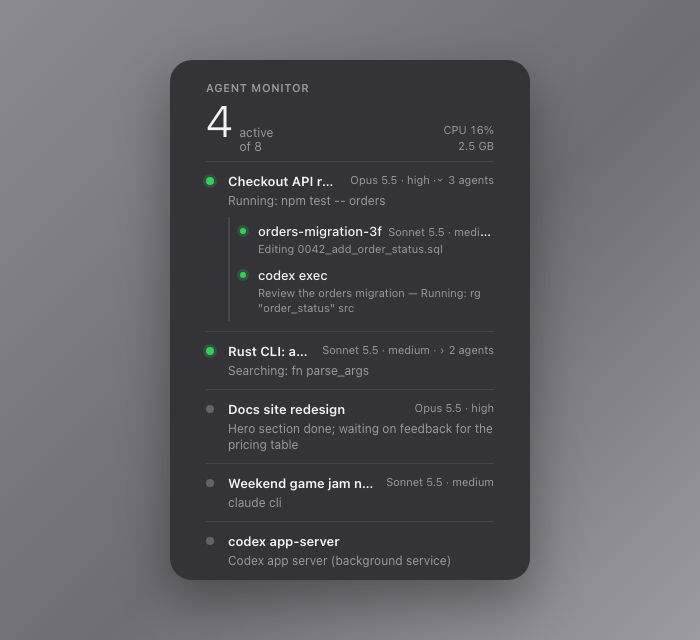
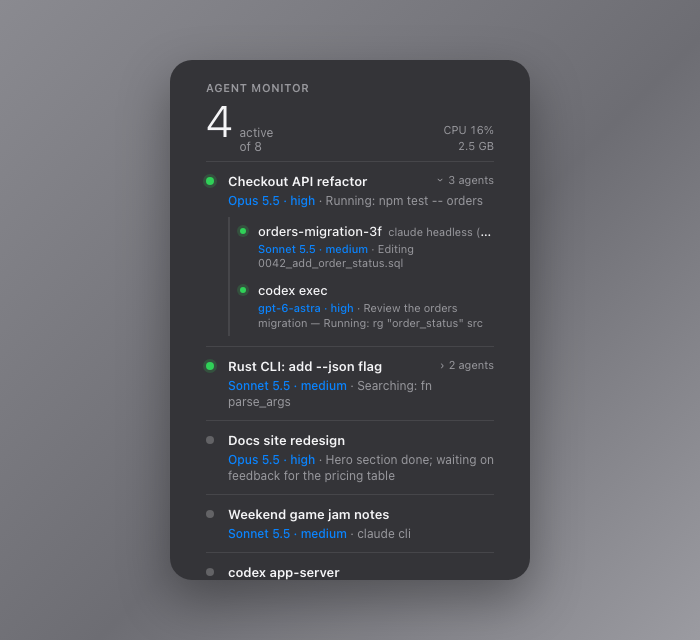
Widget: show model and effort on the summary line so titles are not squeezed

Changed region(s): [[0.27, 0.2812, 0.69, 0.9062], [0.57, 0.7188, 0.69, 0.7812], [0.69, 0.625, 0.72, 0.6562]]

diff --git a/index.html b/index.html
@@ -86,6 +86,7 @@ html.widget,html.widget body{background:transparent}
 .w-kt{font-weight:500;white-space:nowrap;overflow:hidden;text-overflow:ellipsis}
 .w-kt i{font-style:normal;color:var(--mute);font-weight:400;margin-left:6px;font-size:11px}
 .w-ks{grid-column:2;color:var(--mute);font-size:11px;line-height:1.35;display:-webkit-box;-webkit-line-clamp:2;-webkit-box-orient:vertical;overflow:hidden}
+.w-mod{color:var(--accent);font-weight:500}
 .w-empty{color:var(--mute);text-align:center;padding:40px 0}
 </style>
 </head>
@@ -132,11 +133,11 @@ function renderWidget(){
     const live=rs.filter(x=>x.status==="active"),lead=live.find(x=>x.summary)||rs.find(x=>x.summary)||r;
     return {id:+id,model:r.model,live:live.length,n:rs.length,kids:rs.filter(x=>x.pid!==r.pid),title:r.title||`${r.kind} ${r.mode}`,line:lead.summary||`${lead.kind} ${lead.mode}`}})
     .sort((a,b)=>b.live-a.live||b.n-a.n);
-  const kid=k=>`<div class="w-kid" style="margin-left:${Math.max(0,k.depth-1)*12}px"><span class="dot ${k.status==="active"?"active":""}"></span><span class="w-kt">${k.title?`${esc(k.title)}<i>${esc(k.model||k.kind+" "+k.mode)}</i>`:esc(k.kind+" "+k.mode)}</span><span class="w-ks">${esc(k.summary||k.cmd)}</span></div>`;
+  const kid=k=>`<div class="w-kid" style="margin-left:${Math.max(0,k.depth-1)*12}px"><span class="dot ${k.status==="active"?"active":""}"></span><span class="w-kt">${k.title?`${esc(k.title)}<i>${esc(k.kind)} ${esc(k.mode)}</i>`:esc(k.kind+" "+k.mode)}</span><span class="w-ks">${k.model?`<span class="w-mod">${esc(k.model)}</span> · `:""}${esc(k.summary||k.cmd)}</span></div>`;
   const y=$("w").scrollTop;
   $("w").innerHTML=`<div class="w-head"><div><div class="w-cap">Agent Monitor</div><div class="w-big"><b>${act}</b><span>active<br>of ${all.length}</span></div></div><div class="w-meta">CPU ${cpu.toFixed(0)}%<br>${mem.toFixed(1)} GB</div></div>`+
     (rows.length?rows.map(r=>{const has=r.kids.length>0,open=has&&openW.has(r.id);
-      return `<div class="w-row${has?" has":""}${open?" open":""}" ${has?`data-id="${r.id}"`:""}><span class="dot ${r.live?"active":""}"></span><span class="w-t">${esc(r.title)}</span><span class="w-n">${[r.model,has?`<span class="w-chev">›</span>${r.n} agents`:""].filter(Boolean).join(" · ")}</span><span class="w-s">${esc(r.line)}</span>${open?`<div class="w-kids">${r.kids.map(kid).join("")}</div>`:""}</div>`}).join(""):`<div class="w-empty">No running agents</div>`);
+      return `<div class="w-row${has?" has":""}${open?" open":""}" ${has?`data-id="${r.id}"`:""}><span class="dot ${r.live?"active":""}"></span><span class="w-t">${esc(r.title)}</span><span class="w-n">${has?`<span class="w-chev">›</span>${r.n} agents`:""}</span><span class="w-s">${r.model?`<span class="w-mod">${esc(r.model)}</span> · `:""}${esc(r.line)}</span>${open?`<div class="w-kids">${r.kids.map(kid).join("")}</div>`:""}</div>`}).join(""):`<div class="w-empty">No running agents</div>`);
   $("w").scrollTop=y}
 document.addEventListener("click",e=>{const row=e.target.closest(".w-row.has");if(!WIDGET||!row)return;
   const id=+row.dataset.id;openW.has(id)?openW.delete(id):openW.add(id);renderWidget()});
